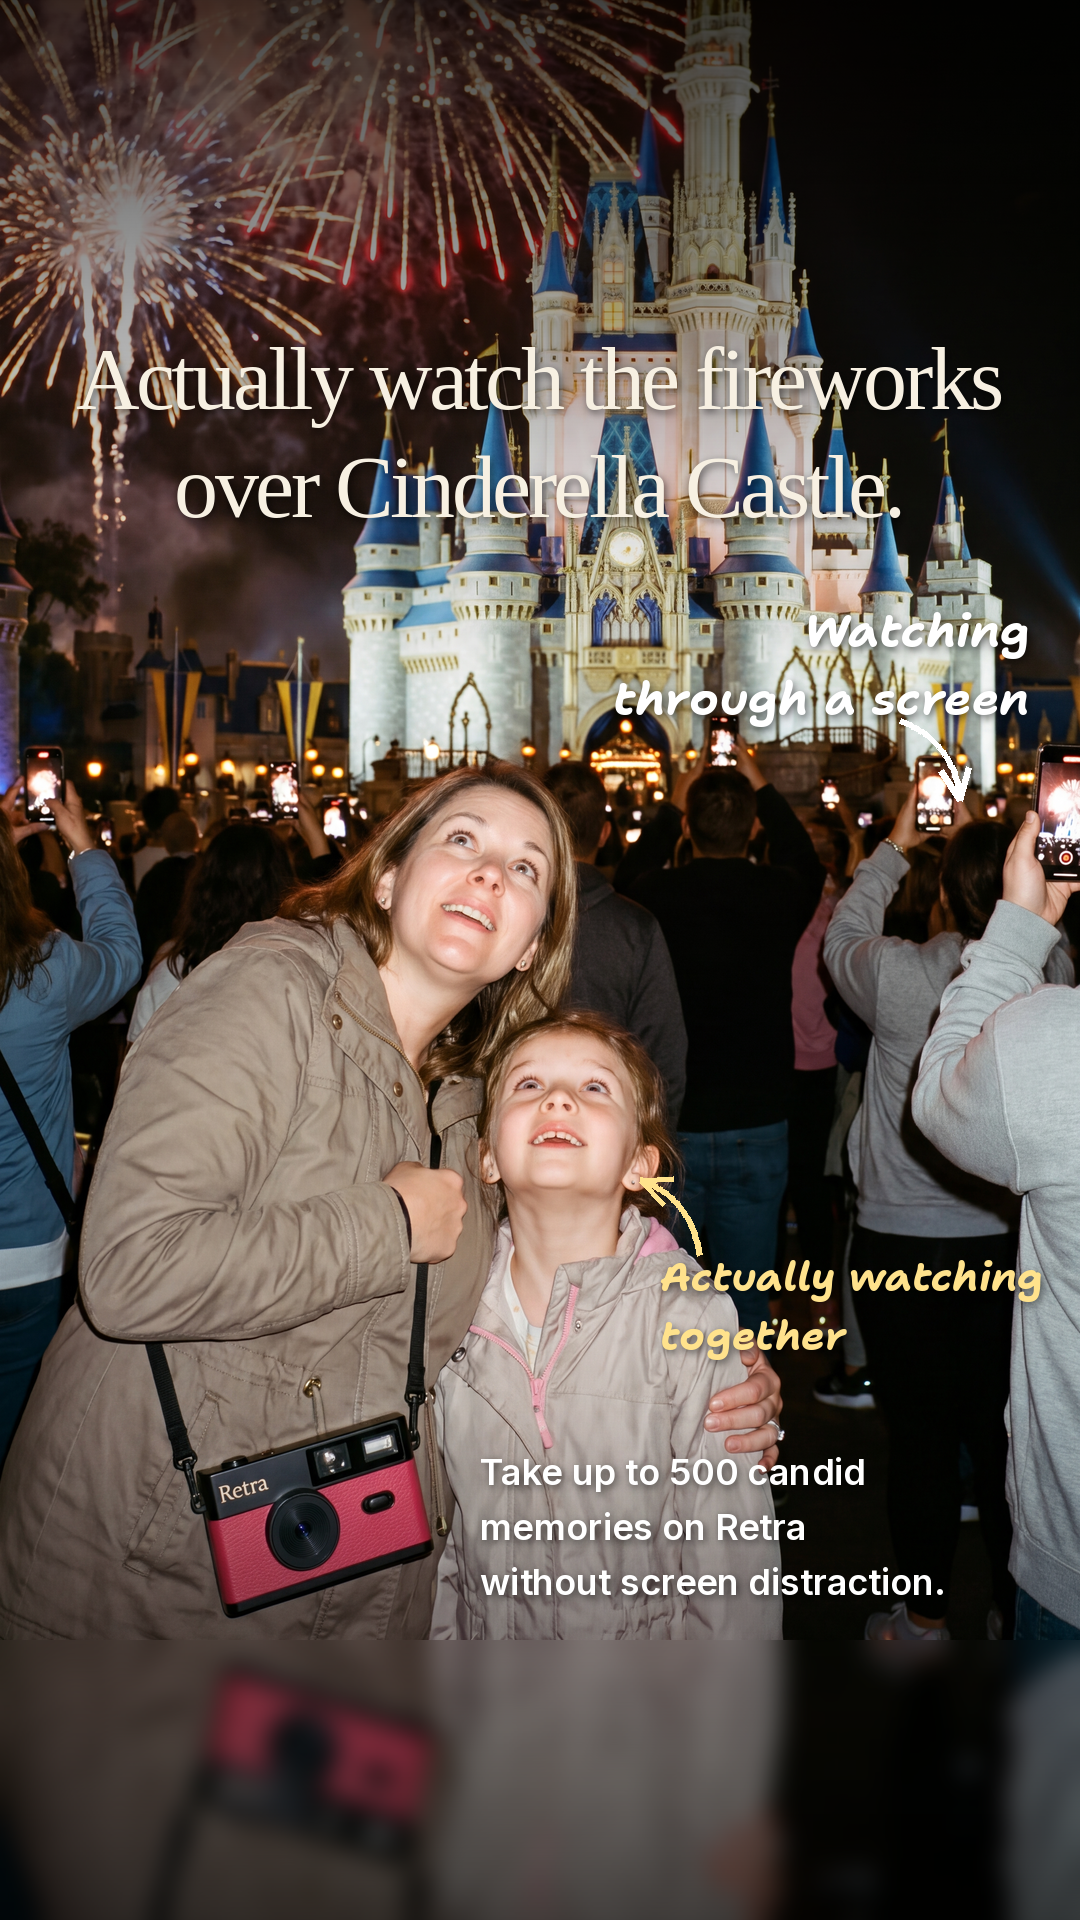
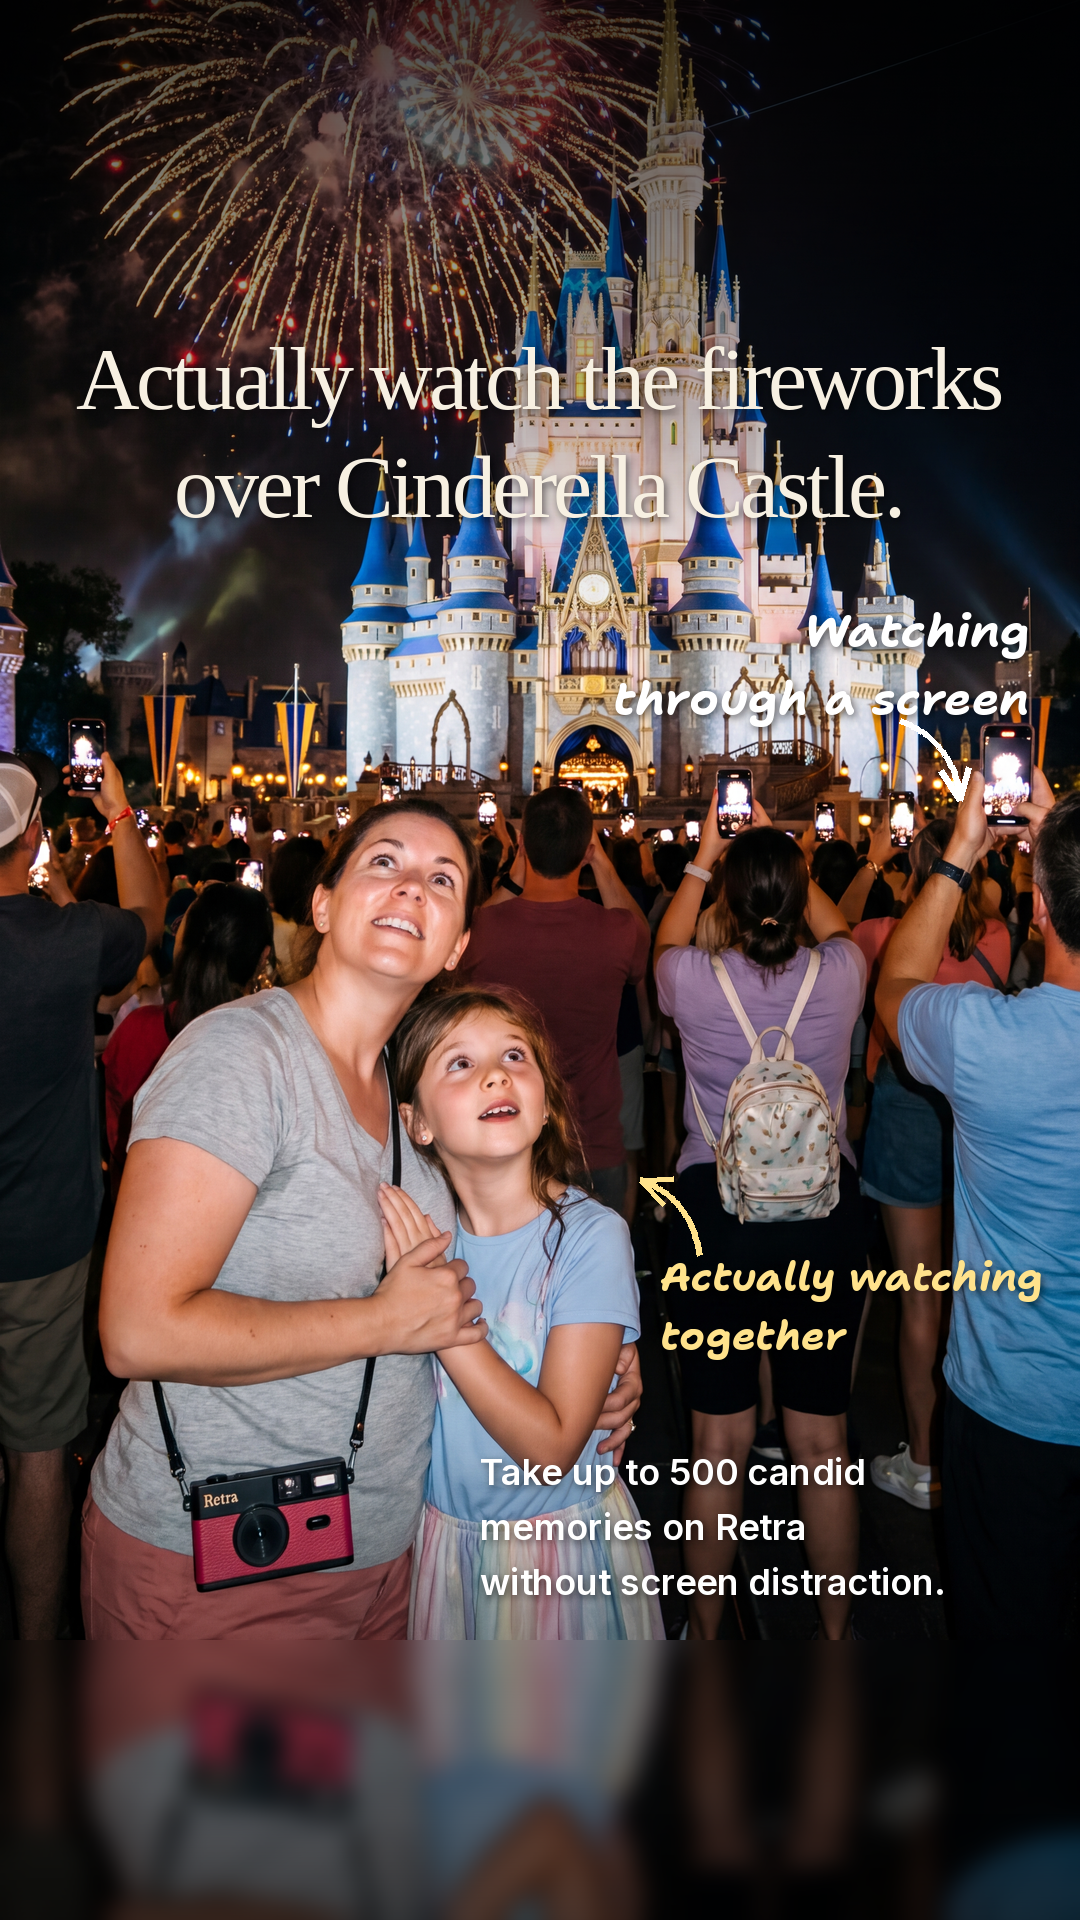
Retra W49 Disney: smaller camera on D1, printed-photo D4, new album-vs-camera-roll D3
Claude-Session: https://claude.ai/code/session_01Mp8pTs9zpTh5aGe4znSQmT

diff --git a/ads/brands/retra/weeks/2026-W49-angles/disney.py b/ads/brands/retra/weeks/2026-W49-angles/disney.py
@@ -17,7 +17,7 @@ from b2 import head, sub, scrim_top, scrim_bottom, SH, WARM
 
 HERE = Path(__file__).resolve().parent
 COPY.update({c["id"]: c for c in json.load(open(HERE / "copy_disney.json"))["concepts"]})
-b2.PICK.update({"d1": "d1_t1", "d3": "d3_t1", "d4": "d4_t1"})  # takes chosen after QA
+b2.PICK.update({"d1": "d1b_t1"})  # takes chosen after QA
 PAPER = (250, 247, 240)
 
 
@@ -96,65 +96,97 @@ def d2(c):
     return img
 
 
-# ---------------------------------------------------------------- D3 postcard to future you
+def photo_print(photo, w, h, border=26, rot=0.0):
+    """A plain lab print (4x6 style, even white border - not an instant-film shape) with a soft drop shadow."""
+    card = Image.new("RGBA", (w, h), (252, 251, 248, 255))
+    card.paste(ImageOps.fit(photo, (w - 2 * border, h - 2 * border), Image.LANCZOS), (border, border))
+    sh = Image.new("RGBA", (w + 90, h + 90), (0, 0, 0, 0))
+    ImageDraw.Draw(sh).rectangle((45, 58, 45 + w, 58 + h), fill=(0, 0, 0, 75))
+    sh = sh.filter(ImageFilter.GaussianBlur(16))
+    sh.alpha_composite(card, (45, 45))
+    return sh.rotate(rot, Image.BICUBIC, expand=True)
+
+
+def faded(im):
+    """Age a print: lift blacks, warm cast, lower saturation."""
+    from PIL import ImageEnhance
+    im = ImageEnhance.Color(im.convert("RGB")).enhance(0.8)
+    a = Image.new("RGB", im.size, (236, 214, 180))
+    return Image.blend(im, a, 0.12)
+
+
+# ---------------------------------------------------------------- D3 your parents' Disney photos vs yours
 def d3(c):
     img = canvas(WHITE)
-    y = head(img, S(c, "headline"), 320, INK, 84, 56, 2)
-    top = int(y + 20)
-    # front: photo postcard
-    fw, fh = 820, 520
-    front = Image.new("RGBA", (fw, fh), (255, 255, 255, 255))
-    front.paste(ImageOps.fit(b2.R("d3"), (fw - 36, fh - 36), Image.LANCZOS, centering=(0.5, 0.5)), (18, 18))
-    # back: message side
-    bw, bh = 920, 560
-    back = Image.new("RGBA", (bw, bh), PAPER + (255,))
-    d = ImageDraw.Draw(back)
-    d.line([(bw * 0.56, 60), (bw * 0.56, bh - 50)], fill=(200, 190, 175), width=3)
-    hand(back, S(c, "message"), 40, 46, int(bw * 0.56) - 60, 30, INK, 11)
-    for k in range(3):
-        d.line([(bw * 0.6, 300 + k * 70), (bw - 40, 300 + k * 70)], fill=(200, 190, 175), width=3)
-    hand(back, S(c, "to_line"), int(bw * 0.6), 240, int(bw * 0.4) - 40, 34, INK, 2)
-    hand(back, S(c, "signoff"), int(bw * 0.6), 470, int(bw * 0.4) - 40, 32, INK, 1)
-    # stamp with the camera
-    sx, sy, sw, shh = bw - 190, 40, 150, 180
-    d.rectangle((sx, sy, sx + sw, sy + shh), fill=(255, 255, 255), outline=(190, 60, 60), width=4)
-    lib.prod(back, "p34_sol", 120, sx + sw / 2, sy + shh / 2)
-    for i, (card, cx, cy, rot) in enumerate([(front, W / 2 - 20, top + 290, -3), (back, W / 2 + 15, top + 800, 2)]):
-        sh = Image.new("RGBA", (card.width + 80, card.height + 80), (0, 0, 0, 0))
-        ImageDraw.Draw(sh).rectangle((40, 52, 40 + card.width, 52 + card.height), fill=(0, 0, 0, 80))
-        sh = sh.filter(ImageFilter.GaussianBlur(16))
-        sh.alpha_composite(card, (40, 40))
-        sh = sh.rotate(rot, Image.BICUBIC, expand=True)
-        img.alpha_composite(sh, (int(cx - sh.width / 2), int(cy - sh.height / 2)))
-    lib.TEXT_BOXES.append((80, top + 520, 1000, top + 1080))
+    y = head(img, S(c, "headline"), 320, INK, 80, 54, 2)
+    top = int(y + 34)
+    ph = 760
+    # left: album page with two faded prints and photo corners
+    lx0, lx1 = 40, 520
+    ImageDraw.Draw(img).rounded_rectangle((lx0, top, lx1, top + ph), 14, fill=(238, 229, 211))
+    for k, (cx, cy, w_, h_, rot) in [("d3v1", (280, top + 200, 400, 310, 3)), ("d3v2", (270, top + 530, 270, 350, -4))]:
+        pr = photo_print(faded(b2.R(k)), w_, h_, 16, rot)
+        img.alpha_composite(pr, (int(cx - pr.width / 2), int(cy - pr.height / 2)))
+    pill(img, S(c, "left_label"), inter(30, "Bold"), (lx0 + lx1) / 2, top + ph + 44, NAVY50, WHITE, padx=22, pady=10)
+    # right: a generic phone camera roll of near-identical shots
+    rx0, rx1 = 570, 1040
+    d = ImageDraw.Draw(img)
+    d.rounded_rectangle((rx0, top, rx1, top + ph), 56, fill=(18, 18, 20))
+    sx0, sy0, sx1, sy1 = rx0 + 18, top + 18, rx1 - 18, top + ph - 18
+    d.rounded_rectangle((sx0, sy0, sx1, sy1), 42, fill=(255, 255, 255))
+    src = b2.R("d3p")
+    cols, gap = 4, 4
+    cw = (sx1 - sx0 - 2 * 12 - (cols - 1) * gap) // cols
+    from PIL import ImageEnhance
+    yy, i = sy0 + 70, 0
+    while yy + cw <= sy1 - 40:
+        for col in range(cols):
+            dx, dy, z = (i * 37) % 9 / 100, (i * 53) % 7 / 100, 1 + (i % 5) * 0.03
+            w0 = int(src.width / z)
+            x0 = int((src.width - w0) * (0.3 + dx))
+            y0 = int((src.height - w0) * (0.3 + dy))
+            t = src.crop((x0, y0, x0 + w0, y0 + w0)).resize((cw, cw), Image.LANCZOS)
+            t = ImageEnhance.Brightness(t).enhance(0.92 + (i % 4) * 0.04)
+            img.paste(t, (sx0 + 12 + col * (cw + gap), yy))
+            i += 1
+        yy += cw + gap
+    d = ImageDraw.Draw(img)
+    d.rounded_rectangle(((rx0 + rx1) / 2 - 70, top + 30, (rx0 + rx1) / 2 + 70, top + 58), 14, fill=(18, 18, 20))
+    pill(img, S(c, "right_label"), inter(30, "Bold"), (rx0 + rx1) / 2, top + ph + 44, INK, WHITE, padx=22, pady=10)
+    yb = top + ph + 100
+    prod(img, "p34_chalk", 300, 230, min(yb + 120, 1500))
+    sub(img, S(c, "product_line"), min(yb + 60, 1440), INK, 36, 26, 3, x=420, w=600, align="left", weight="SemiBold")
     return img
 
 
-# ---------------------------------------------------------------- D4 hero photo + white band with colours
+# ---------------------------------------------------------------- D4 printed film-look photo + camera beside it
 def d4(c):
     img = canvas(WHITE)
-    ph = 1000
-    img.alpha_composite(ImageOps.fit(b2.R("d4"), (W, ph), Image.LANCZOS, centering=(0.5, 0.4)).convert("RGBA"), (0, 0))
-    y = head(img, S(c, "headline"), ph + 30, INK, 72, 50, 2)
+    y = head(img, S(c, "headline"), 320, INK, 76, 52, 2)
     y = sub(img, S(c, "sub"), y + 8, BODY, 34, 26, 2)
+    top = int(y + 20)
+    pr = photo_print(b2.R("d4p"), 780, 520, 26, 3.5)
+    img.alpha_composite(pr, (int(W / 2 - 40 - pr.width / 2), top))
+    pb = top + pr.height
+    prod(img, "p34_chalk", 340, 810, pb - 60)
     d = ImageDraw.Draw(img)
     names = [n.title() for n in COLOURS]
     gap = 160
     x0 = W / 2 - gap * 2.5
-    yy = y + 30
+    yy = pb + 100
     for i, n in enumerate(COLOURS):
         cx = x0 + i * gap
         d.ellipse((cx - 30, yy, cx + 30, yy + 60), fill=SWATCH[n], outline=(210, 214, 218), width=2)
         f = inter(24, "Medium")
         draw_text(d, (cx - measure(f, names[i]) / 2, yy + 70), names[i], f, BODY)
     lib.TEXT_BOXES.append((x0 - 40, yy, x0 + gap * 5 + 40, yy + 100))
-    pill(img, S(c, "cta"), inter(36, "SemiBold"), W / 2, min(yy + 170, 1580), "cta", WHITE, padx=56, pady=18)
+    pill(img, S(c, "cta"), inter(36, "SemiBold"), W / 2, min(yy + 175, 1575), "cta", WHITE, padx=56, pady=18)
     return img
 
 
 PLACE = {}  # per-render note / arrow positions, set after seeing the chosen take
 BUILDERS = {"D1": d1, "D2": d2, "D3": d3, "D4": d4}
-SLUG = {"D1": "disney-fireworks-annotated", "D2": "disney-snapshot-board", "D3": "disney-postcard-future-you",
+SLUG = {"D1": "disney-fireworks-annotated", "D2": "disney-snapshot-board", "D3": "disney-parents-album-vs-camera-roll",
         "D4": "disney-main-street-colours"}
 
 if __name__ == "__main__":

diff --git a/ads/brands/retra/weeks/2026-W49-angles/disney_render.py b/ads/brands/retra/weeks/2026-W49-angles/disney_render.py
@@ -54,6 +54,32 @@ def bp(job, fix=""):
 
 render.build_prompt = bp
 render.JOBS.update(J)
+SMALL = (" SIZE IS CRITICAL: the camera is small and palm-sized, about 11 cm wide and 6 cm tall, like a pocket"
+         " point-and-shoot or a disposable camera - roughly the width of an adult's palm, much smaller than her"
+         " head or torso; it hangs at hip level on a thin wrist strap.")
+VINTAGE = "Genuine 1990s 35mm drugstore film print scan: faded warm colours, slight colour cast, soft focus, film grain."
+J.update({
+    "d1b": dict(refs=["blossom"], ar="9:16", style=FLASH + " Night, fireworks light, warm glow, grain.", prompt=(
+        J["d1"]["prompt"].replace("the raspberry-pink Retra camera hangs from the mum's wrist on its strap, front"
+        " facing the viewer.", "the small raspberry-pink Retra camera dangles from the mum's wrist on its thin strap at"
+        " hip level, front facing the viewer.") + SMALL)),
+    "d4p": dict(refs=[], ar="3:2", style="Candid film-look photo with warm vintage colour, soft grain, gentle vignette.",
+        prompt=("Main Street, U.S.A. at Magic Kingdom on a sunny morning, the castle at the end of the street: a dad"
+        " carries his daughter about 4 on his shoulders, both laughing, her arms up, seen from a few metres in front."
+        " Plain clothes with no prints." + CASTLE + NOCHAR)),
+    "d3v1": dict(refs=[], ar="4:3", style=VINTAGE, prompt=(
+        "1990s family snapshot: mum, dad and two kids (about 5 and 8) in 90s clothes (pastel windbreaker, high-waisted"
+        " jeans, scrunchie) squeezed together grinning in front of the castle at Magic Kingdom, slightly tilted framing,"
+        " a thumb shadow at one corner." + CASTLE + NOCHAR)),
+    "d3v2": dict(refs=[], ar="3:4", style=VINTAGE, prompt=(
+        "1990s snapshot: a girl about 6 in a 90s denim dress holding a plain red balloon, laughing on Main Street,"
+        " U.S.A., the castle softly behind her, candid, slightly off-centre." + CASTLE + NOCHAR)),
+    "d3p": dict(refs=[], ar="1:1", style=PHONE + " Midday sun.", prompt=(
+        "A typical posed modern smartphone photo: a mum and two kids squinting and forcing smiles in front of the castle"
+        " at Magic Kingdom, centered, stiff." + CASTLE + NOCHAR)),
+})
+render.JOBS.update(J)
+
 if __name__ == "__main__":
     ids = sys.argv[1:] or list(J)
     for i in ids:

diff --git a/ads/brands/retra/weeks/2026-W49-angles/README.md b/ads/brands/retra/weeks/2026-W49-angles/README.md
@@ -60,3 +60,6 @@ risk); still no characters and nothing implying Disney endorses Retra. Formats: 
 board (ILLUSTRATIVE prints), D3 postcard to future you, D4 Main Street hero + colour swatches. Copy: `copy_disney.json`
 (StefanBrain v2; `copy_disney_v1.json` first draft). Scenes: `disney_render.py` (patches render.REAL to allow the castle);
 layouts: `disney.py`. Sheet: `output/_sheet_disney_4x5.jpg`.
+Revision (Sam, same day): D1 re-rendered with the camera at true palm size (`d1b`); D4 now a film-look 4x6 print with the
+camera beside it (`d4p`; plain lab print, not instant film, since Retra doesn't print); D3 postcard replaced by "your
+parents' Disney photos vs your camera roll" (`d3v1`, `d3v2` faded 90s prints; `d3p` tiled as a camera roll).
